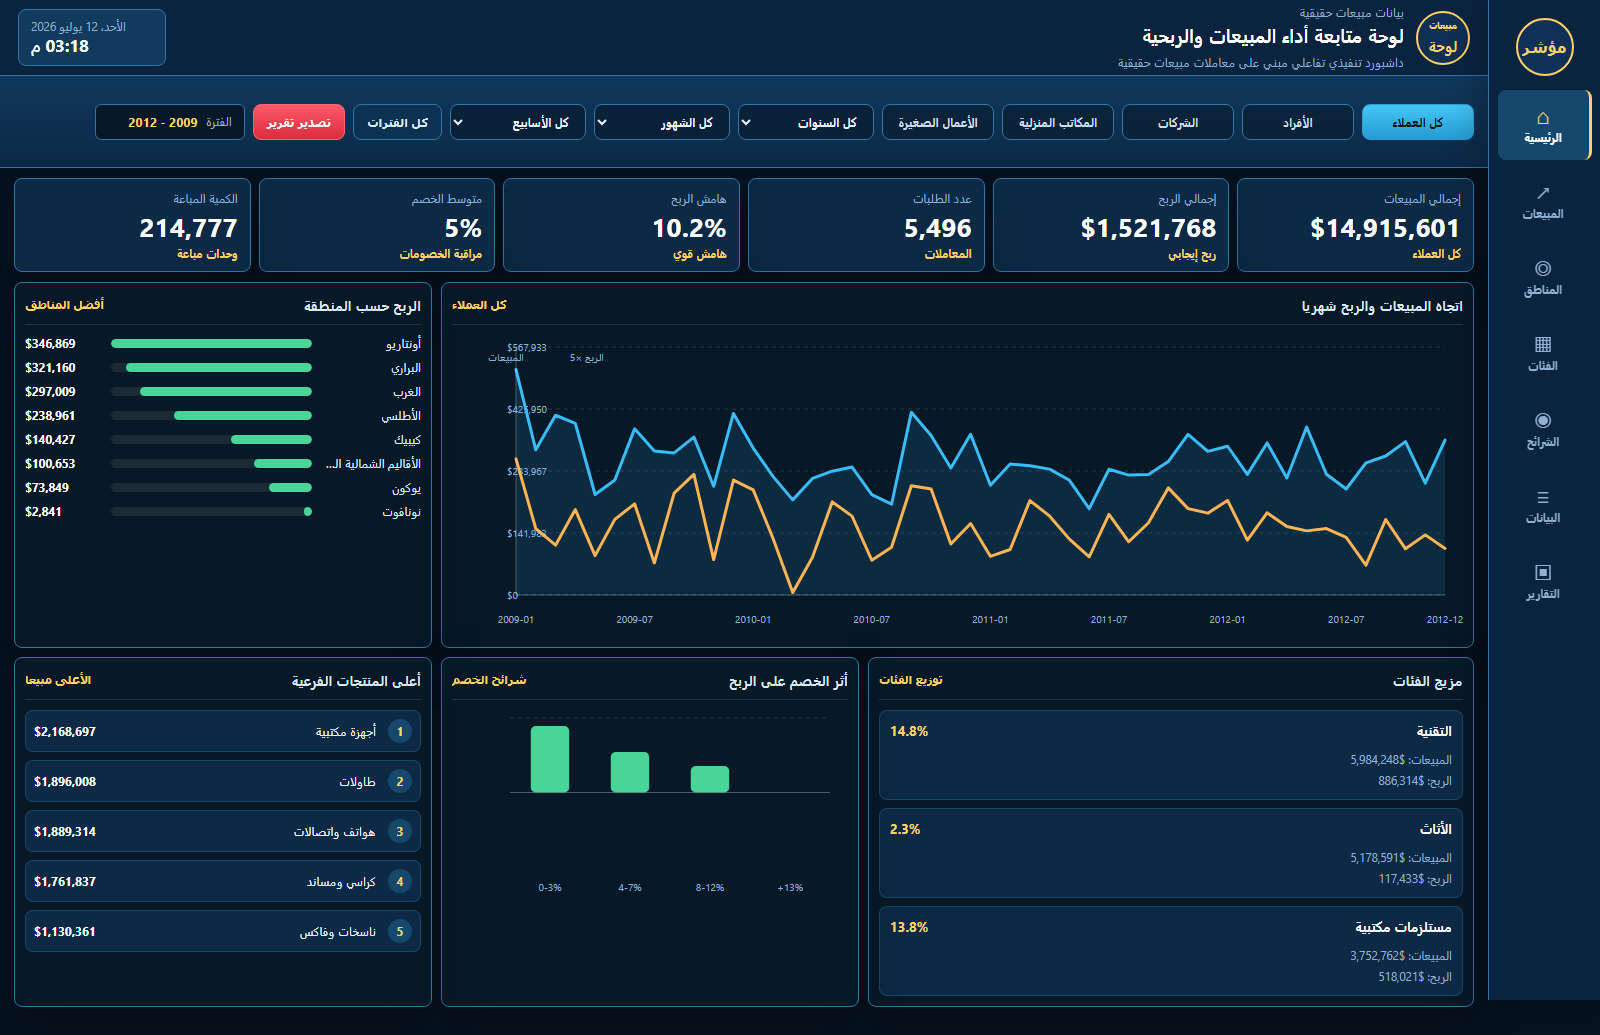
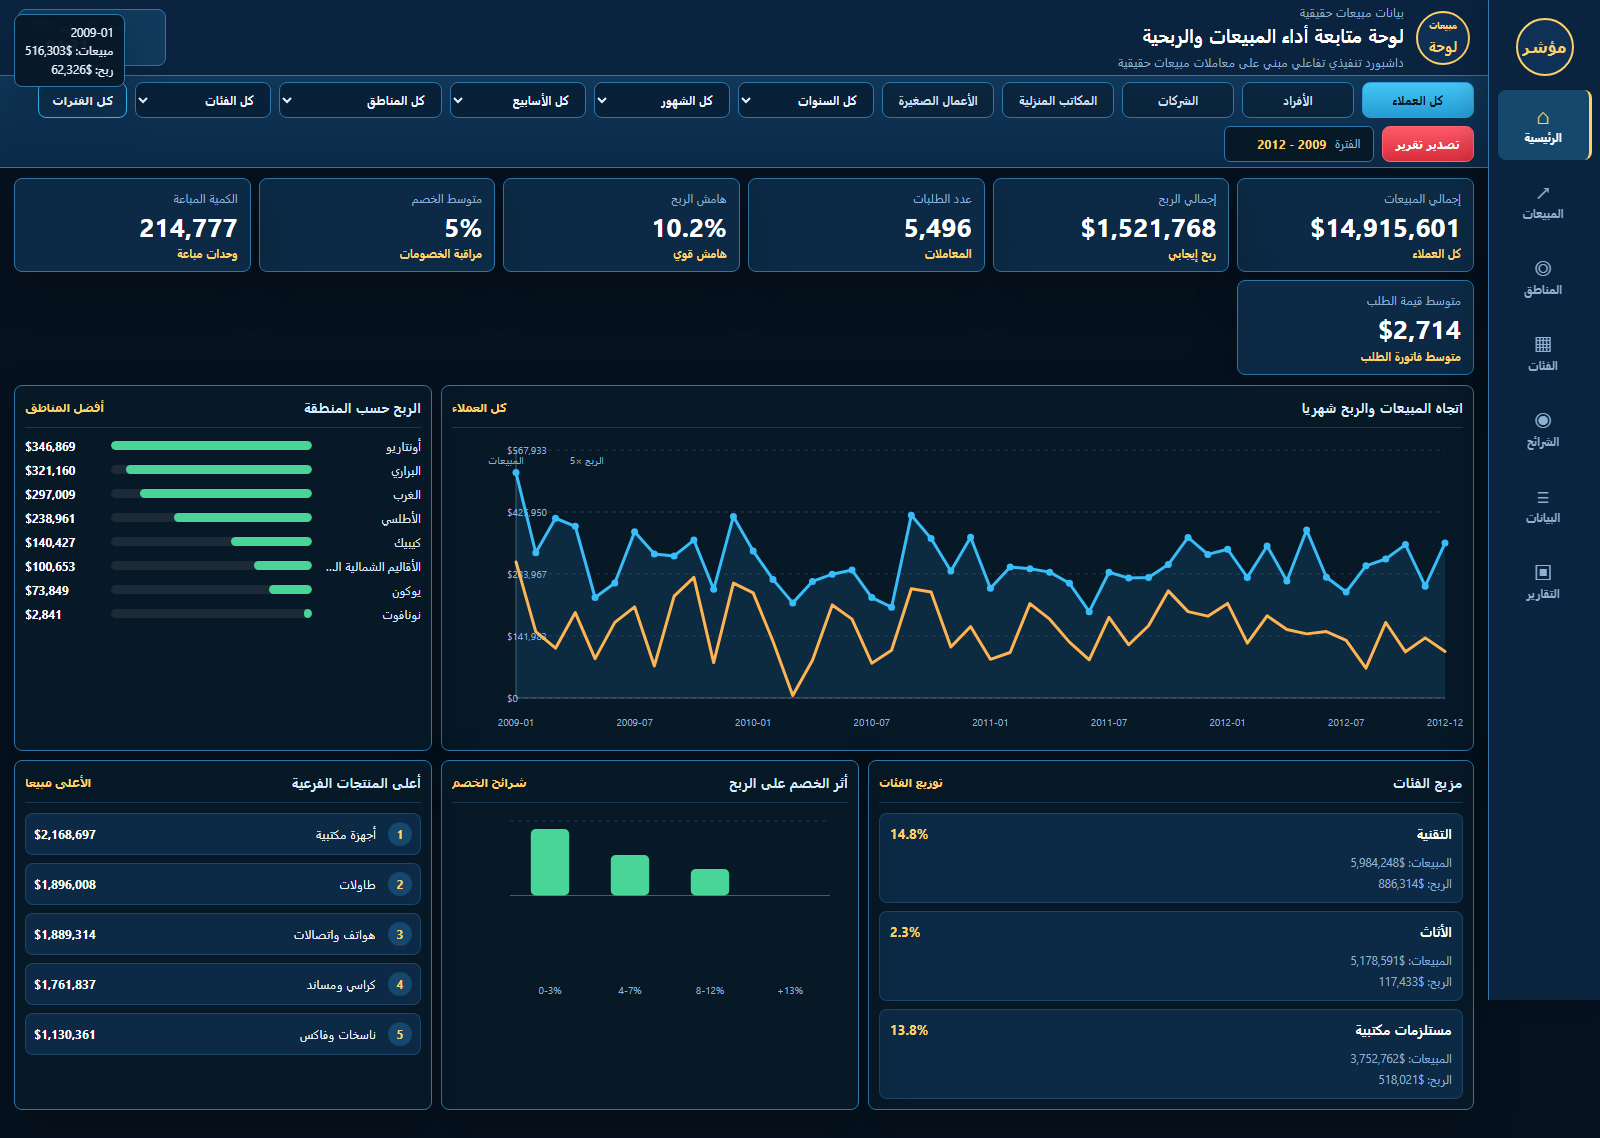
Add region/category filters, chart tooltips, and Average Order Value KPI

Changed region(s): [[0.0, 0.0, 1.0, 0.9894], [0.9375, 0.4947, 0.9688, 0.5256]]

diff --git a/web_dashboard/app.js b/web_dashboard/app.js
@@ -65,6 +65,8 @@ let rawRows = [];
 let activeSegment = "All";
 let activeReport = "monthly";
 let dateFilters = { year: "All", month: "All", week: "All" };
+let activeRegion = "All";
+let activeCategory = "All";
 
 const byId = (id) => document.getElementById(id);
 const unique = (rows, key) => [...new Set(rows.map((row) => row[key]).filter((value) => value !== "" && value != null))].sort((a, b) => a - b);
@@ -84,6 +86,7 @@ function bootDashboard(rows) {
   rawRows = rows.map(normalizeRow).filter(Boolean);
   initNavigation();
   initControls();
+  initTooltips();
   tickClock();
   setInterval(tickClock, 30000);
   updateDashboard();
@@ -153,6 +156,7 @@ function initNavigation() {
 function initControls() {
   renderSegmentFilters();
   renderTimeFilters();
+  renderDimensionFilters();
   document.querySelectorAll(".filter-btn").forEach((button) => {
     button.addEventListener("click", () => {
       activeSegment = button.dataset.segment;
@@ -169,9 +173,13 @@ function initControls() {
       updateDashboard();
     });
   });
+  byId("regionFilter").addEventListener("change", () => { activeRegion = byId("regionFilter").value; updateDashboard(); });
+  byId("categoryFilter").addEventListener("change", () => { activeCategory = byId("categoryFilter").value; updateDashboard(); });
   byId("clearFiltersBtn").addEventListener("click", () => {
     dateFilters = { year: "All", month: "All", week: "All" };
     activeSegment = "All";
+    activeRegion = "All";
+    activeCategory = "All";
     updateDashboard();
   });
   byId("exportPdfBtn").addEventListener("click", () => window.print());
@@ -201,6 +209,11 @@ function renderTimeFilters() {
   byId("weekFilter").innerHTML = optionList("كل الأسابيع", weeks, "أسبوع");
 }
 
+function renderDimensionFilters() {
+  byId("regionFilter").innerHTML = `<option value="All">كل المناطق</option>` + unique(rawRows, "region").map((value) => `<option value="${value}">${labelValue(value, regionLabels)}</option>`).join("");
+  byId("categoryFilter").innerHTML = `<option value="All">كل الفئات</option>` + unique(rawRows, "category").map((value) => `<option value="${value}">${labelValue(value, categoryLabels)}</option>`).join("");
+}
+
 function optionList(allLabel, values, label) {
   return `<option value="All">${allLabel}</option>${values.map((value) => `<option value="${value}">${label} ${value}</option>`).join("")}`;
 }
@@ -209,6 +222,8 @@ function syncControls() {
   byId("yearFilter").value = dateFilters.year;
   byId("monthFilter").value = dateFilters.month;
   byId("weekFilter").value = dateFilters.week;
+  byId("regionFilter").value = activeRegion;
+  byId("categoryFilter").value = activeCategory;
   document.querySelectorAll(".filter-btn").forEach((button) => {
     button.classList.toggle("is-active", button.dataset.segment === activeSegment);
   });
@@ -229,6 +244,8 @@ function currentRows() {
     if (dateFilters.year !== "All" && row.year !== Number(dateFilters.year)) return false;
     if (dateFilters.month !== "All" && row.month !== Number(dateFilters.month)) return false;
     if (dateFilters.week !== "All" && row.week !== Number(dateFilters.week)) return false;
+    if (activeRegion !== "All" && row.region !== activeRegion) return false;
+    if (activeCategory !== "All" && row.category !== activeCategory) return false;
     return true;
   });
 }
@@ -261,8 +278,10 @@ function aggregate(rows) {
     margin: 0,
     avgDiscount: rows.length ? sum(rows, "discount") / rows.length : 0,
     quantity: sum(rows, "quantity"),
+    aov: 0,
   };
   metrics.margin = metrics.sales ? metrics.profit / metrics.sales : 0;
+  metrics.aov = metrics.orders ? metrics.sales / metrics.orders : 0;
   return {
     metrics,
     monthly: groupTime(rows, "month"),
@@ -329,6 +348,7 @@ function renderKpis(metrics) {
   byId("marginKpi").textContent = formatPercent.format(metrics.margin);
   byId("discountKpi").textContent = formatPercent.format(metrics.avgDiscount);
   byId("quantityKpi").textContent = formatNumber.format(metrics.quantity);
+  byId("aovKpi").textContent = formatMoney.format(metrics.aov);
 }
 
 function renderCurrentPage(rows) {
@@ -380,6 +400,7 @@ function drawTrend(elementId, rows, options = {}) {
       return `<text class="chart-label" x="${x(i)}" y="${height - 14}" text-anchor="middle">${row.month}</text>`;
     })
     .join("");
+  const dots = rows.map((row, i) => `<circle class="dot" cx="${x(i)}" cy="${y(row.sales)}" r="3.5" data-tip="${row.month}&#10;مبيعات: ${formatMoney.format(row.sales)}&#10;ربح: ${formatMoney.format(row.profit)}"></circle>`).join("");
   svg.setAttribute("viewBox", `0 0 ${width} ${height}`);
   svg.innerHTML = `
     ${grid}
@@ -388,6 +409,7 @@ function drawTrend(elementId, rows, options = {}) {
     <path class="line-profit" d="${profitLine}"></path>
     <line class="axis" x1="${pad.left}" x2="${pad.left}" y1="${pad.top}" y2="${pad.top + innerH}"></line>
     <line class="axis" x1="${pad.left}" x2="${pad.left + innerW}" y1="${pad.top + innerH}" y2="${pad.top + innerH}"></line>
+    ${dots}
     ${labels}
     <text class="chart-label" x="${pad.left + 8}" y="${pad.top + 14}">المبيعات</text>
     <text class="chart-label" x="${pad.left + 88}" y="${pad.top + 14}" fill="#f29d38">الربح ×5</text>`;
@@ -401,7 +423,7 @@ function renderRegionBars(rows) {
       const width = Math.max(4, (Math.abs(row.profit) / max) * 100);
       const color = row.profit < 0 ? "var(--red)" : "var(--green)";
       const name = labelValue(row.name, regionLabels);
-      return `<div class="bar-row"><label title="${name}">${name}</label><span class="bar-track"><span class="bar-fill" style="width:${width}%;--bar-color:${color}"></span></span><strong>${formatMoney.format(row.profit)}</strong></div>`;
+      return `<div class="bar-row" data-tip="${name}&#10;ربح: ${formatMoney.format(row.profit)}"><label title="${name}">${name}</label><span class="bar-track"><span class="bar-fill" style="width:${width}%;--bar-color:${color}"></span></span><strong>${formatMoney.format(row.profit)}</strong></div>`;
     })
     .join("");
 }
@@ -411,7 +433,8 @@ function renderCategoryCards(rows) {
     .slice(0, 4)
     .map((row) => {
       const margin = row.sales ? row.profit / row.sales : 0;
-      return `<article class="category-card"><header><h3>${labelValue(row.name, categoryLabels)}</h3><b>${formatPercent.format(margin)}</b></header><span>المبيعات: ${formatMoney.format(row.sales)}</span><br><span>الربح: ${formatMoney.format(row.profit)}</span></article>`;
+      const name = labelValue(row.name, categoryLabels);
+      return `<article class="category-card" data-tip="${name}&#10;مبيعات: ${formatMoney.format(row.sales)}&#10;ربح: ${formatMoney.format(row.profit)}&#10;هامش: ${formatPercent.format(margin)}"><header><h3>${name}</h3><b>${formatPercent.format(margin)}</b></header><span>المبيعات: ${formatMoney.format(row.sales)}</span><br><span>الربح: ${formatMoney.format(row.profit)}</span></article>`;
     })
     .join("");
 }
@@ -434,7 +457,7 @@ function drawDiscount(elementId, rows) {
       const h = (Math.abs(row.profit) / max) * (innerH / 2);
       const y = row.profit >= 0 ? zeroY - h : zeroY;
       const fill = row.profit >= 0 ? "var(--green)" : "var(--red)";
-      return `<rect x="${x}" y="${y}" width="${barW}" height="${h}" rx="5" fill="${fill}"></rect><text class="chart-label" x="${x + barW / 2}" y="${height - 14}" text-anchor="middle">${row.bucket}</text>`;
+       return `<rect x="${x}" y="${y}" width="${barW}" height="${h}" rx="5" fill="${fill}" data-tip="${row.bucket}&#10;مبيعات: ${formatMoney.format(row.sales)}&#10;ربح: ${formatMoney.format(row.profit)}"></rect><text class="chart-label" x="${x + barW / 2}" y="${height - 14}" text-anchor="middle">${row.bucket}</text>`;
     })
     .join("");
   svg.setAttribute("viewBox", `0 0 ${width} ${height}`);
@@ -445,7 +468,7 @@ function renderRanks(rows) {
   byId("topSubcategories").innerHTML = rows
     .map((row, index) => {
       const name = labelValue(row.name, subcategoryLabels);
-      return `<li><b>${index + 1}</b><span title="${name}">${name}</span><strong>${formatMoney.format(row.sales)}</strong></li>`;
+      return `<li data-tip="${name}&#10;مبيعات: ${formatMoney.format(row.sales)}"><b>${index + 1}</b><span title="${name}">${name}</span><strong>${formatMoney.format(row.sales)}</strong></li>`;
     })
     .join("");
 }
@@ -505,5 +528,38 @@ function triggerReaction() {
   document.querySelectorAll(".kpi-card, .panel").forEach((target) => {
     target.classList.remove("is-reacting");
     window.requestAnimationFrame(() => target.classList.add("is-reacting"));
+  });
+}
+
+function initTooltips() {
+  const tip = byId("chartTooltip");
+  if (!tip) return;
+  const positionTip = (el, evt) => {
+    const pad = 14;
+    const r = el.getBoundingClientRect();
+    let x = evt.clientX + pad;
+    let y = evt.clientY + pad;
+    if (x + r.width > window.innerWidth) x = evt.clientX - r.width - pad;
+    if (y + r.height > window.innerHeight) y = evt.clientY - r.height - pad;
+    el.style.left = `${Math.max(4, x)}px`;
+    el.style.top = `${Math.max(4, y)}px`;
+  };
+  const show = (html, evt) => {
+    tip.textContent = html;
+    tip.classList.add("is-visible");
+    positionTip(tip, evt);
+  };
+  const hide = () => tip.classList.remove("is-visible");
+  document.addEventListener("mouseover", (e) => {
+    const t = e.target.closest("[data-tip]");
+    if (t) show(t.getAttribute("data-tip"), e);
+  });
+  document.addEventListener("mousemove", (e) => {
+    const t = e.target.closest("[data-tip]");
+    if (t) positionTip(tip, e);
+  });
+  document.addEventListener("mouseout", (e) => {
+    const t = e.target.closest("[data-tip]");
+    if (t) hide();
   });
 }

diff --git a/web_dashboard/styles.css b/web_dashboard/styles.css
@@ -370,7 +370,7 @@ button {
 
 .kpi-grid {
   display: grid;
-  grid-template-columns: repeat(6, minmax(0, 1fr));
+  grid-template-columns: repeat(7, minmax(0, 1fr));
   gap: 8px;
   margin-bottom: 10px;
 }
@@ -929,6 +929,38 @@ button {
   100% {
     transform: translateY(0);
   }
+}
+
+.chart-tooltip {
+  position: fixed;
+  z-index: 60;
+  pointer-events: none;
+  max-width: 250px;
+  padding: 8px 10px;
+  border: 1px solid var(--line);
+  border-radius: 8px;
+  background: rgba(7, 24, 39, 0.96);
+  color: var(--text);
+  font-size: 0.74rem;
+  line-height: 1.55;
+  white-space: pre-line;
+  box-shadow: var(--shadow);
+  opacity: 0;
+  transition: opacity 120ms ease;
+}
+
+.chart-tooltip.is-visible {
+  opacity: 1;
+}
+
+.dot {
+  cursor: pointer;
+  fill: var(--blue);
+  transition: r 120ms ease;
+}
+
+.dot:hover {
+  r: 6;
 }
 
 @media (max-width: 1100px) {

diff --git a/web_dashboard/index.html b/web_dashboard/index.html
@@ -66,6 +66,8 @@
       <select id="yearFilter" class="time-filter" aria-label="فلتر السنة"></select>
       <select id="monthFilter" class="time-filter" aria-label="فلتر الشهر"></select>
       <select id="weekFilter" class="time-filter" aria-label="فلتر الأسبوع"></select>
+      <select id="regionFilter" class="time-filter" aria-label="فلتر المنطقة"></select>
+      <select id="categoryFilter" class="time-filter" aria-label="فلتر الفئة"></select>
       <button id="clearFiltersBtn" class="utility-btn" type="button">كل الفترات</button>
       <button id="exportPdfBtn" class="danger-btn" type="button">تصدير تقرير</button>
       <div class="filter-status">
@@ -106,6 +108,12 @@
             <span>الكمية المباعة</span>
             <strong id="quantityKpi">0</strong>
             <small>وحدات مباعة</small>
+          </article>
+
+          <article class="kpi-card">
+            <span>متوسط قيمة الطلب</span>
+            <strong id="aovKpi">$0</strong>
+            <small>متوسط فاتورة الطلب</small>
           </article>
         </section>
 
@@ -237,6 +245,7 @@
       </section>
     </main>
 
+    <div id="chartTooltip" class="chart-tooltip" role="status" aria-live="polite"></div>
     <script src="data/sales_transactions.js"></script>
     <script src="app.js"></script>
   </body>

diff --git a/README.md b/README.md
@@ -37,6 +37,7 @@ Without a clear dashboard, those answers take manual work and are easy to get wr
 | Profit Margin | Profit as a percentage of sales. |
 | Average Discount | Mean discount applied to transactions. |
 | Quantity Sold | Total units sold. |
+| Average Order Value | Typical value of a single order (sales divided by orders). |
 
 All KPIs update instantly when filters change.
 
@@ -48,8 +49,9 @@ The data is loaded as a static JavaScript file and aggregated in the browser. No
 
 ## Dashboard Features
 
-- Six headline KPI cards with live subtotals.
-- Filters for year, month, week, and customer segment.
+- Seven headline KPI cards with live subtotals.
+- Filters for period (year, month, week), region, category, and customer segment.
+- Interactive charts with hover tooltips and highlighted data points.
 - Monthly sales and profit trend chart.
 - Profit comparison by region.
 - Product category and sub-category performance.